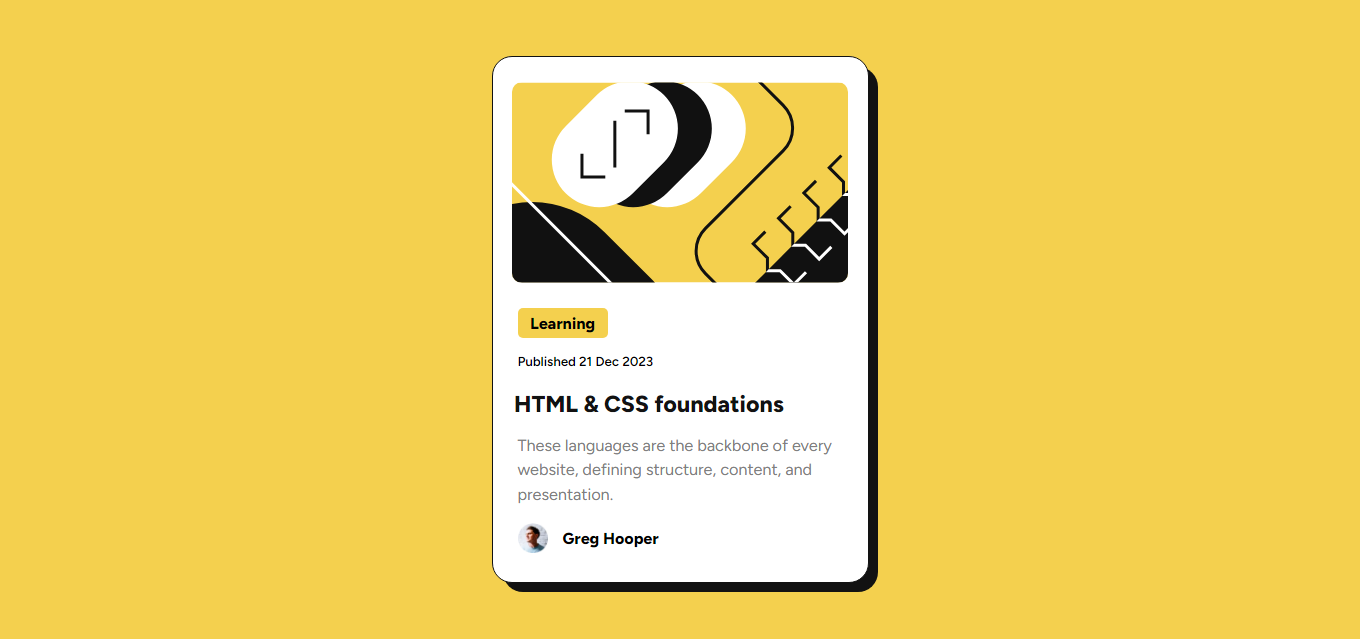
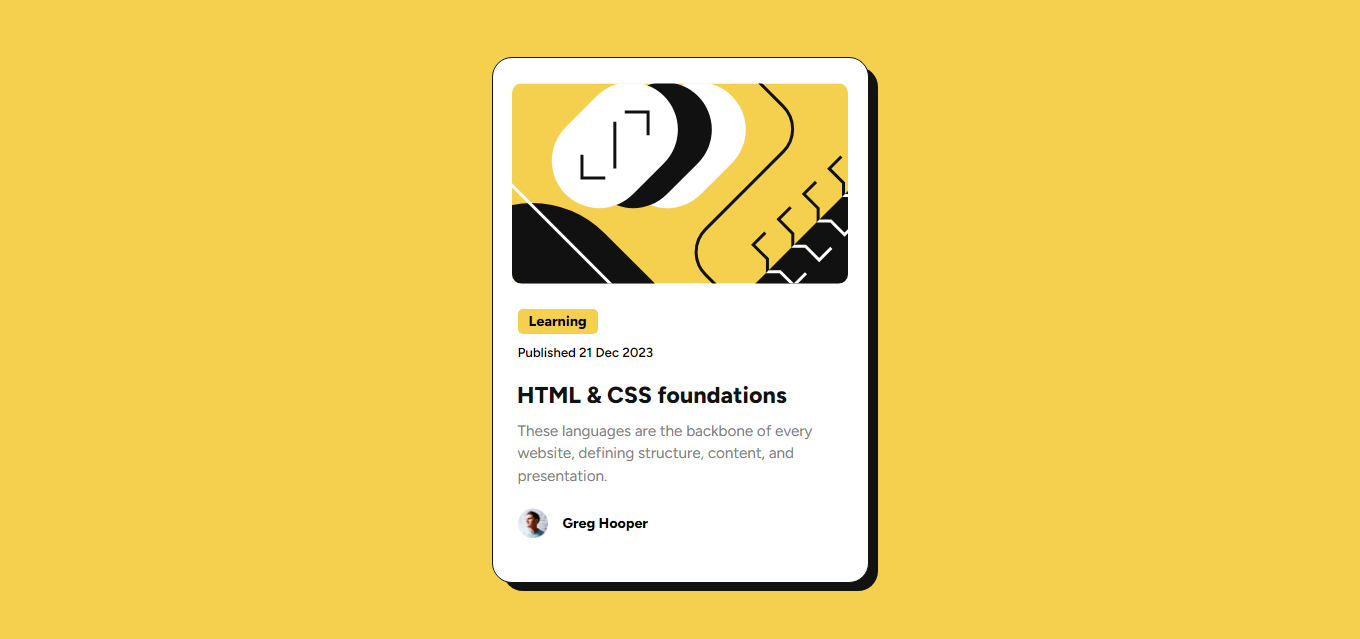
Add files via upload

diff --git a/index.css b/index.css
@@ -31,7 +31,7 @@ main {
 }
 
 section {
-    height: 525px;
+    height: 524px;
     width: 375px;
     background-color: hsl(0, 0%, 100%);
     border: 1px solid hsl(0, 0%, 7%);
@@ -44,7 +44,7 @@ section {
 }
 
 .back {
-    height: 525px;
+    height: 524px;
     width: 375px;
     background-color: hsl(0, 0%, 7%);
     display: flex;
@@ -53,7 +53,7 @@ section {
     border-radius: 20px;
     box-shadow: 9px 9px 0 0 hsl(0, 0%, 7%);
     position: relative;
-    bottom: 35px;
+    bottom: 66px;
     right: 5px;
     z-index: 0;
 }
@@ -70,15 +70,16 @@ section {
 }
 
 .learning {
-    width: 90px;
-    height: 30px;
+    width: 80px;
+    height: 25px;
     font-family: customFont2;
+    font-size: calc(13px + 0.090625vw);
     background-color: hsl(47, 88%, 63%);
     border-radius: 5px;
     display: flex;
     justify-content: center;
     align-items: center;
-    margin-bottom: 15px;
+    margin-bottom: 10px;
 }
 
 .tiny-img {
@@ -91,35 +92,36 @@ section {
     display: flex;
     align-items: center;
     font-family: customFont2;
-    margin-top: 15px;
+    margin-top: 20px;
+    font-size: calc(13px + 0.090625vw);
 }
 
 p {
     color: hsl(0, 0%, 50%);
-    font-size: calc(15px + 0.090625vw);
+    font-size: calc(14px + 0.090625vw);
     line-height: 1.5;
-    margin-top: 65px;
+    margin-top: 60px;
 }
 
 .publish {
-    margin-bottom: 15px;
+    margin-bottom: 10px;
     font-size: calc(12px + 0.090625vw);
     font-family: customFont3;
 }
 
 .foundation {
     width: 270px;
-    margin-left: 15px;
+    margin-left: 18px;
     font-size: calc(22px + 0.090625vw);
     font-family: customFont2;
     color: hsl(0, 0%, 7%);
     position: relative;
-    top: 325px;
+    top: 300px;
     z-index: 5;
 }
 
 .ver {
-    height: 510px;
+    height: 509px;
     width: 362px;
 }
 

diff --git a/index.html b/index.html
@@ -24,7 +24,7 @@
           </div>
       </section>
       <div class="ver">
-        <div class="foundation">HTML & CSS foundations</div>
+        <h1 class="foundation">HTML & CSS foundations</h1>
         <div class="back"></div>
       </div>
     </main>

diff --git a/README.md b/README.md
@@ -18,8 +18,8 @@ Users should be able to:
 
 ### Screenshot
 
-[![Desktop.png](https://i.postimg.cc/SRwSxHQ2/Desktop.png)](https://postimg.cc/tnNQrSxp)
-[![Mobile.png](https://i.postimg.cc/0jmQD9Bd/Mobile.png)](https://postimg.cc/Zvb4hzZC)
+[![Desktop.png](https://i.postimg.cc/fRnNJ6mZ/Desktop.png)](https://postimg.cc/3dB6qftb)
+[![Mobile.png](https://i.postimg.cc/xdgDp87T/Mobile.png)](https://postimg.cc/DWWM8vnt)
 
 ### Links
 
